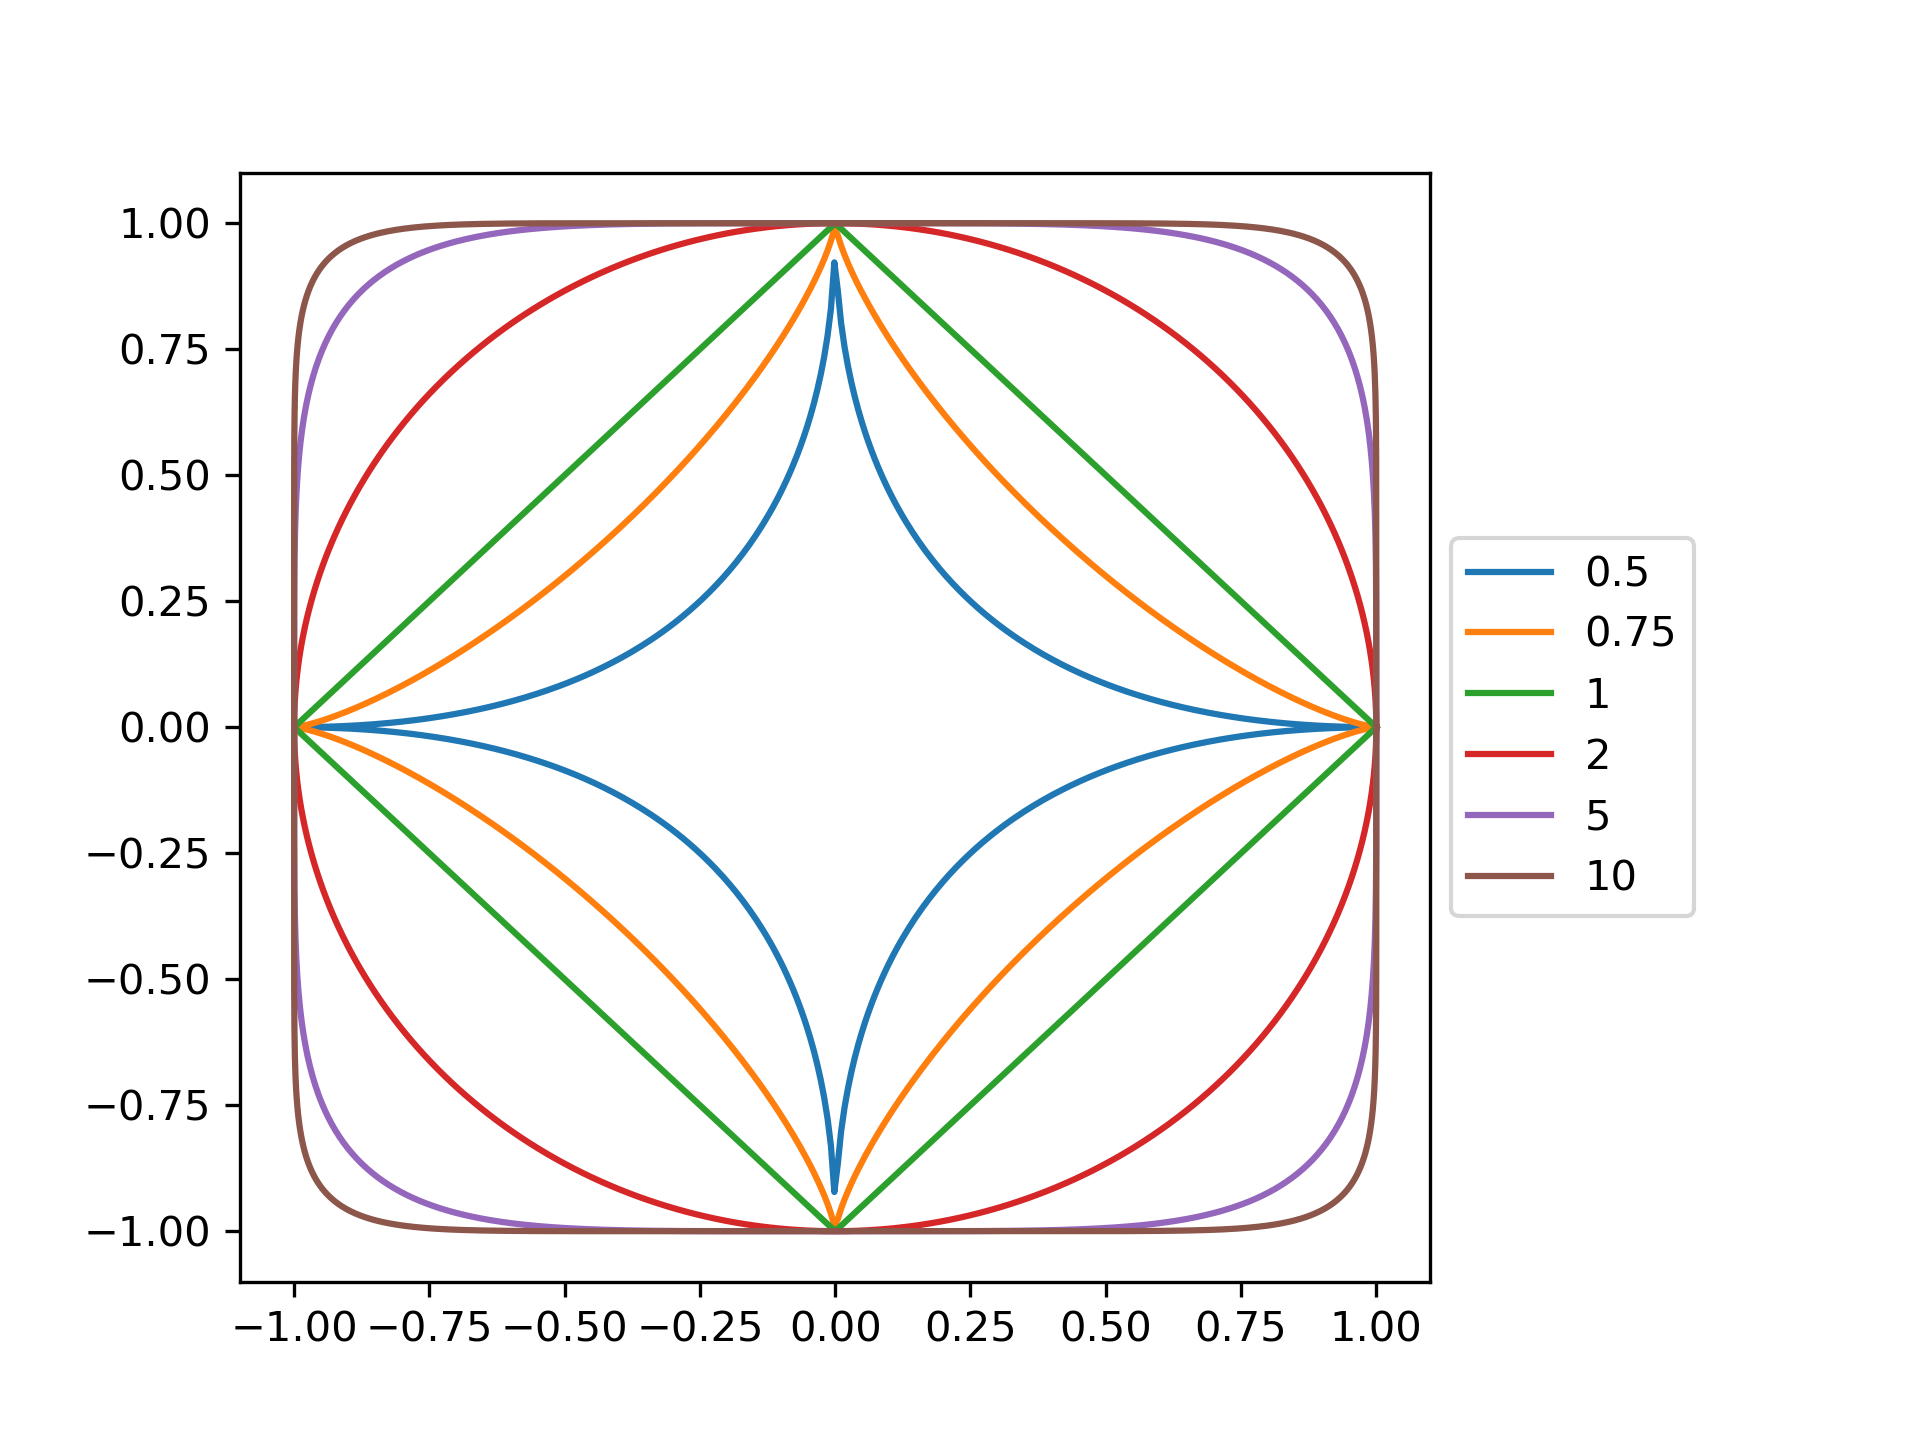
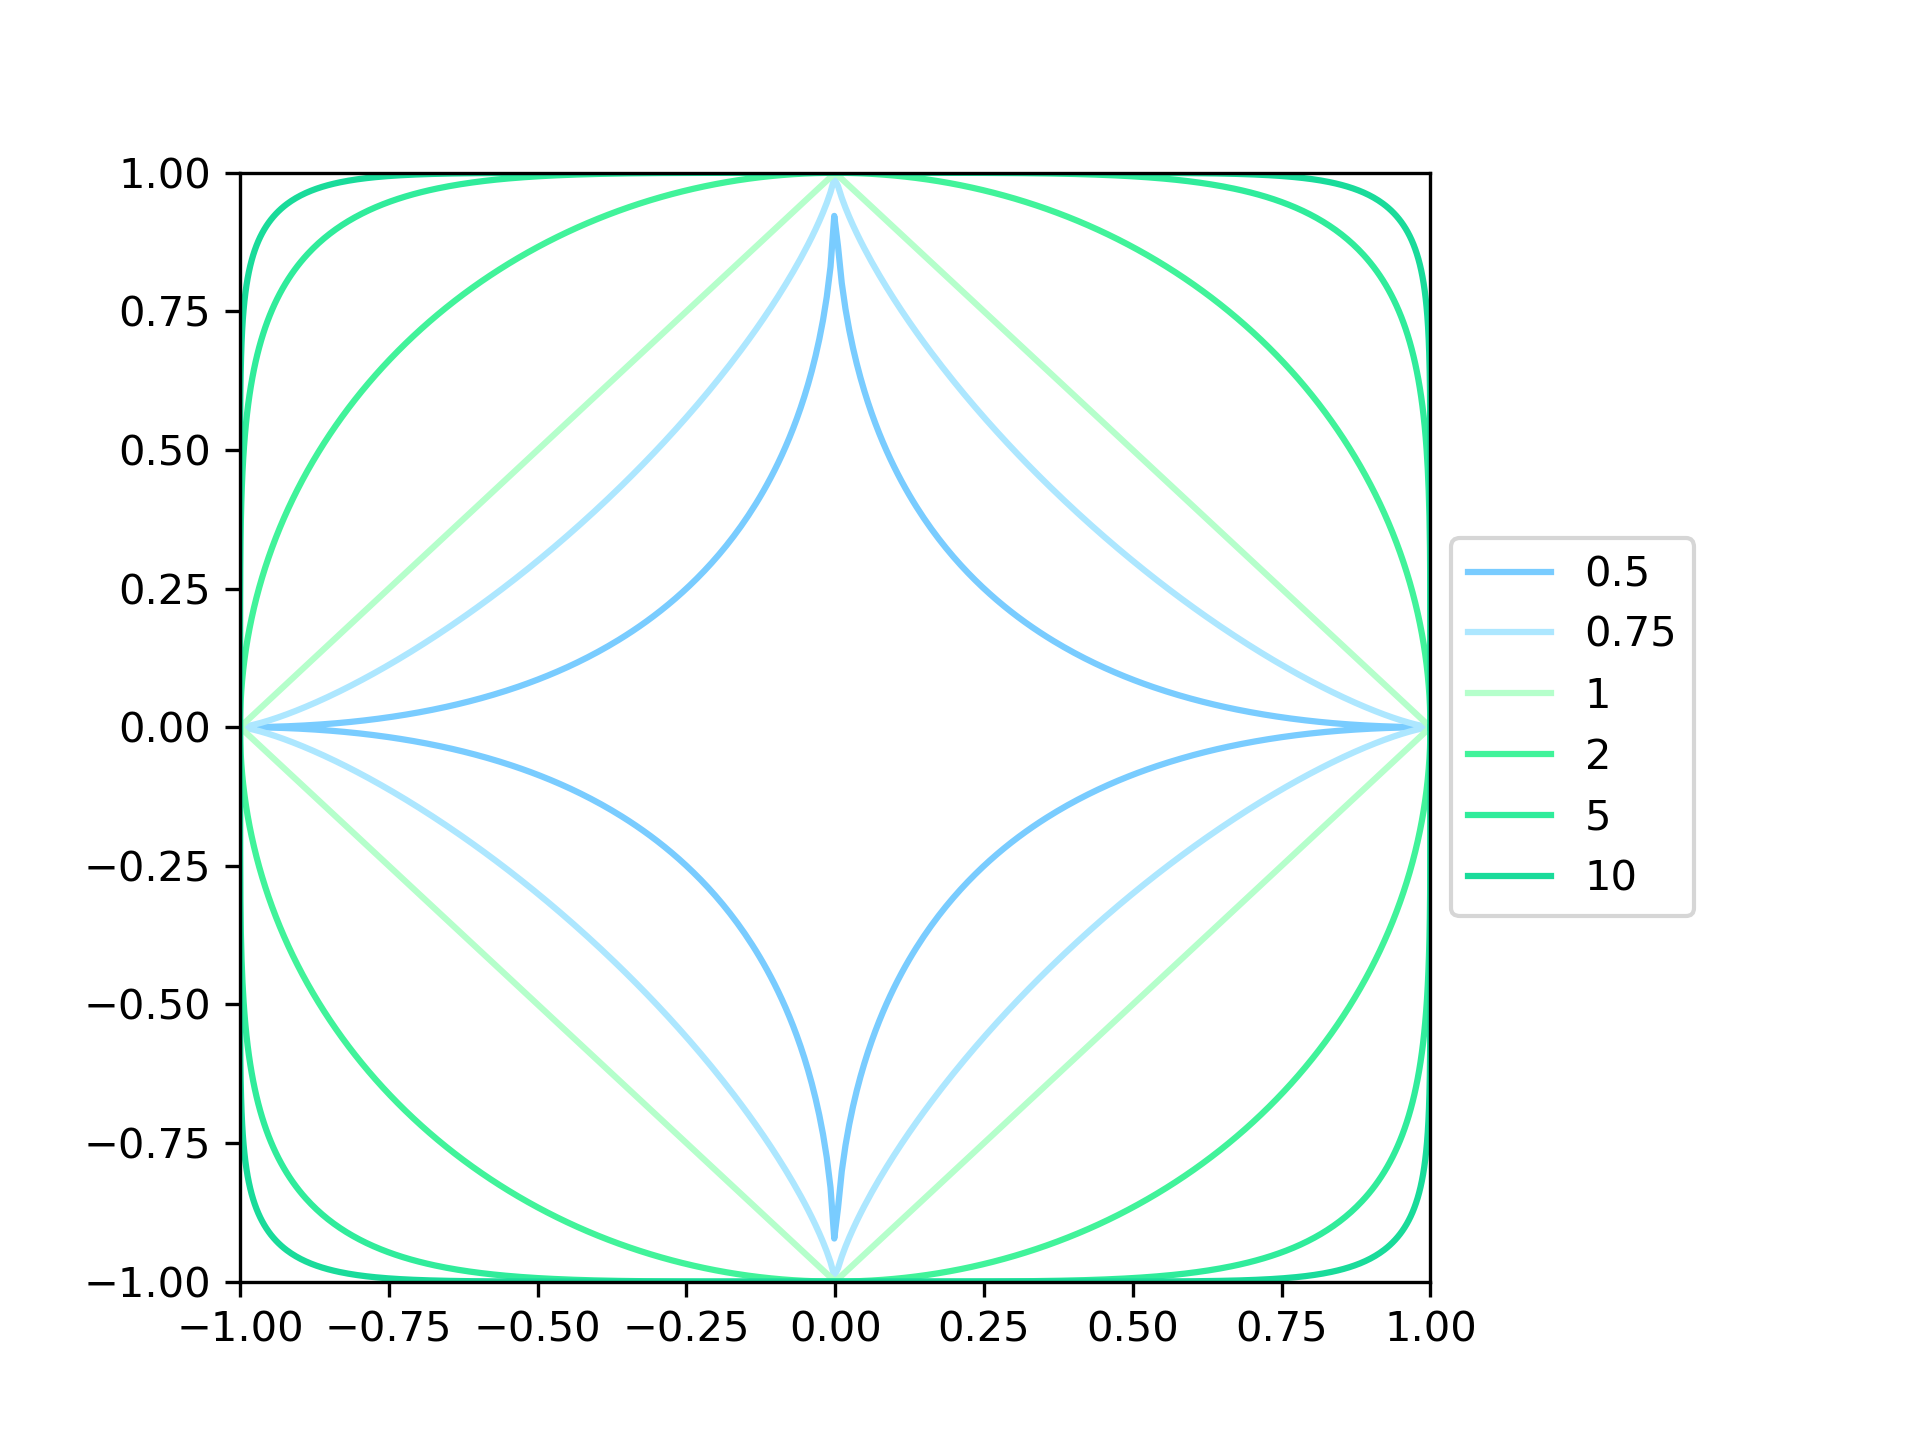
Savepoint before switching to laptop

diff --git a/miscellaneous/minkowski_unit_circle.py b/miscellaneous/minkowski_unit_circle.py
@@ -1,19 +1,25 @@
 import os
 
-import numpy as np
 import matplotlib.pyplot as plt
+import numpy as np
+
+from betterment_colors import BETTERMENT_PALETTE
+
+# Quick script to generate a plot of the unit circle in various Lebesgue spaces.
 
 fig = plt.figure()
 ax = plt.subplot(111)
 
-for p in [0.5, 0.75, 1, 2, 5, 10]:
-    steps = np.linspace(0, 2*np.pi, 1000)
+for i, p in enumerate([0.5, 0.75, 1, 2, 5, 10]):
+    steps = np.linspace(0, 2 * np.pi, 1000)
     xs = np.cos(steps)
-    ys = (1 - (abs(xs) ** p))**(1 / p)
+    ys = (1 - (abs(xs) ** p)) ** (1 / p)
     ys[steps >= np.pi] *= -1
-    plt.plot(xs, ys, label='{0}'.format(p))
+    plt.plot(xs, ys, label='{0}'.format(p), c=BETTERMENT_PALETTE[i])
 box = ax.get_position()
-ax.set_position([box.x0, box.y0, box.width*0.8, box.height])
+ax.set_position([box.x0, box.y0, box.width * 0.8, box.height])
+ax.set_xlim(-1, 1)
+ax.set_ylim(-1, 1)
 ax.legend(loc='center left', bbox_to_anchor=(1, 0.5))
 plt.savefig(os.path.join('images', 'minkowski_p_unit_circles.png'), dpi=300)
 plt.close()

diff --git a/miscellaneous/generate_heatmap.py b/miscellaneous/generate_heatmap.py
@@ -90,6 +90,27 @@ def run(starting_cash=100_000, commission=0.005):
 
     sharpe_df.to_csv(os.path.join('datasets', 'heatmap.csv'))
 
+    sum_df = pd.DataFrame(
+        data=np.zeros_like(sharpe_df.values),
+        index=sharpe_df.index,
+        columns=sharpe_df.columns
+    )
+
+    for r in [-1, 0, 1]:
+        for c in [-1, 0, 1]:
+            sum_df += sharpe_df.shift(r, axis=0).shift(c, axis=1).fillna(0)
+
+    for r in [0, -1]:
+        for c in [0, -1]:
+            sum_df.iloc[r, c] /= 4
+
+    sum_df.iloc[1:-2, 0] /= 6
+    sum_df.iloc[1:-2, -1] /= 6
+    sum_df.iloc[0, 1:-2] /= 6
+    sum_df.iloc[-1, 1:-2] /= 6
+    sum_df.iloc[1:-2, 1:-2] /= 9
+
+
     # A mask is created to cover any cells where the excess Sharpe is 0, i.e., the strategy did not rebalance
     mask = sharpe_df == 0
 

diff --git a/test.py b/test.py
@@ -1,0 +1,25 @@
+import os
+
+import numpy as np
+import pandas as pd
+
+sharpe_df = pd.read_csv('datasets/heatmap.csv', index_col=0)
+sum_df = pd.DataFrame(
+    data=np.zeros_like(sharpe_df.values),
+    index=sharpe_df.index,
+    columns=sharpe_df.columns
+)
+
+for r in [-1, 0, 1]:
+    for c in [-1, 0, 1]:
+        sum_df += sharpe_df.shift(r, axis=0).shift(c, axis=1).fillna(0)
+
+for r in [0, -1]:
+    for c in [0, -1]:
+        sum_df.iloc[r, c] /= 4
+
+sum_df.iloc[1:-2, 0] /= 6
+sum_df.iloc[1:-2, -1] /= 6
+sum_df.iloc[0, 1:-2] /= 6
+sum_df.iloc[-1, 1:-2] /= 6
+sum_df.iloc[1:-2, 1:-2] /= 9
